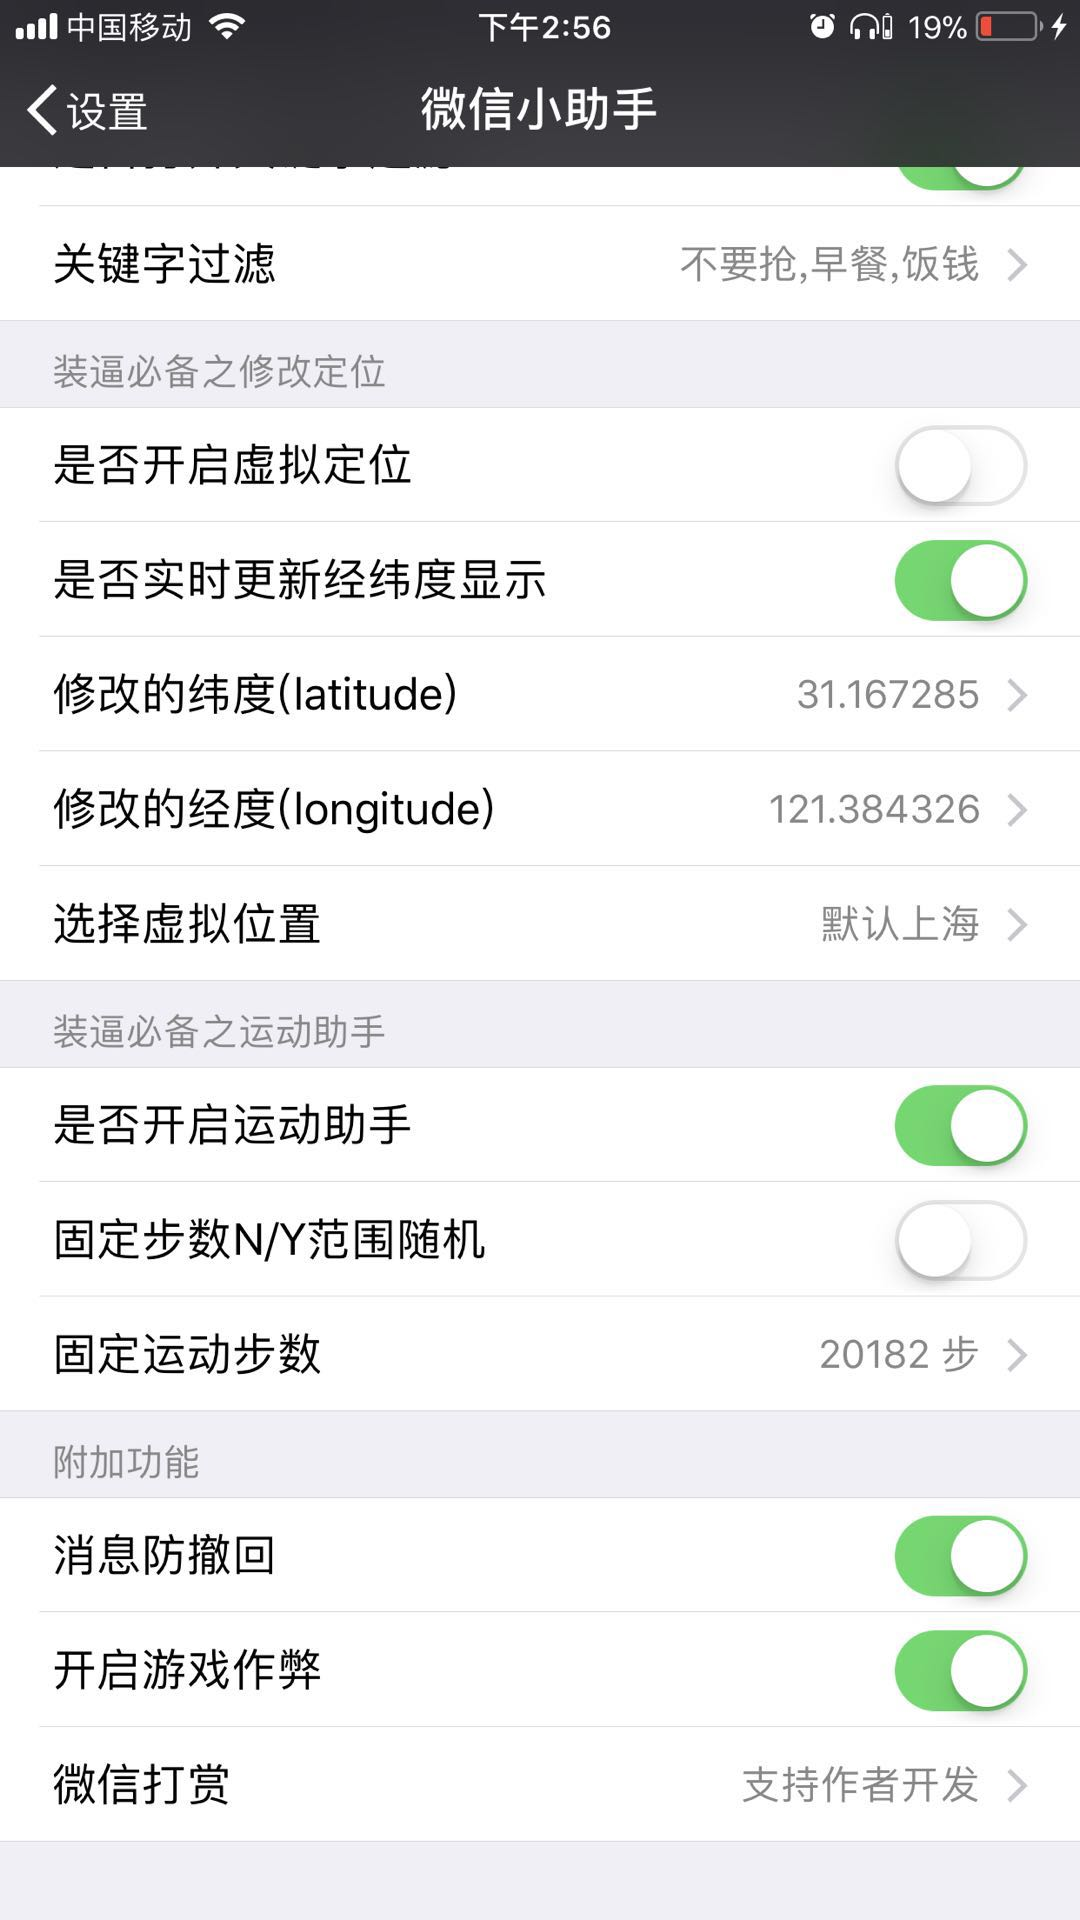
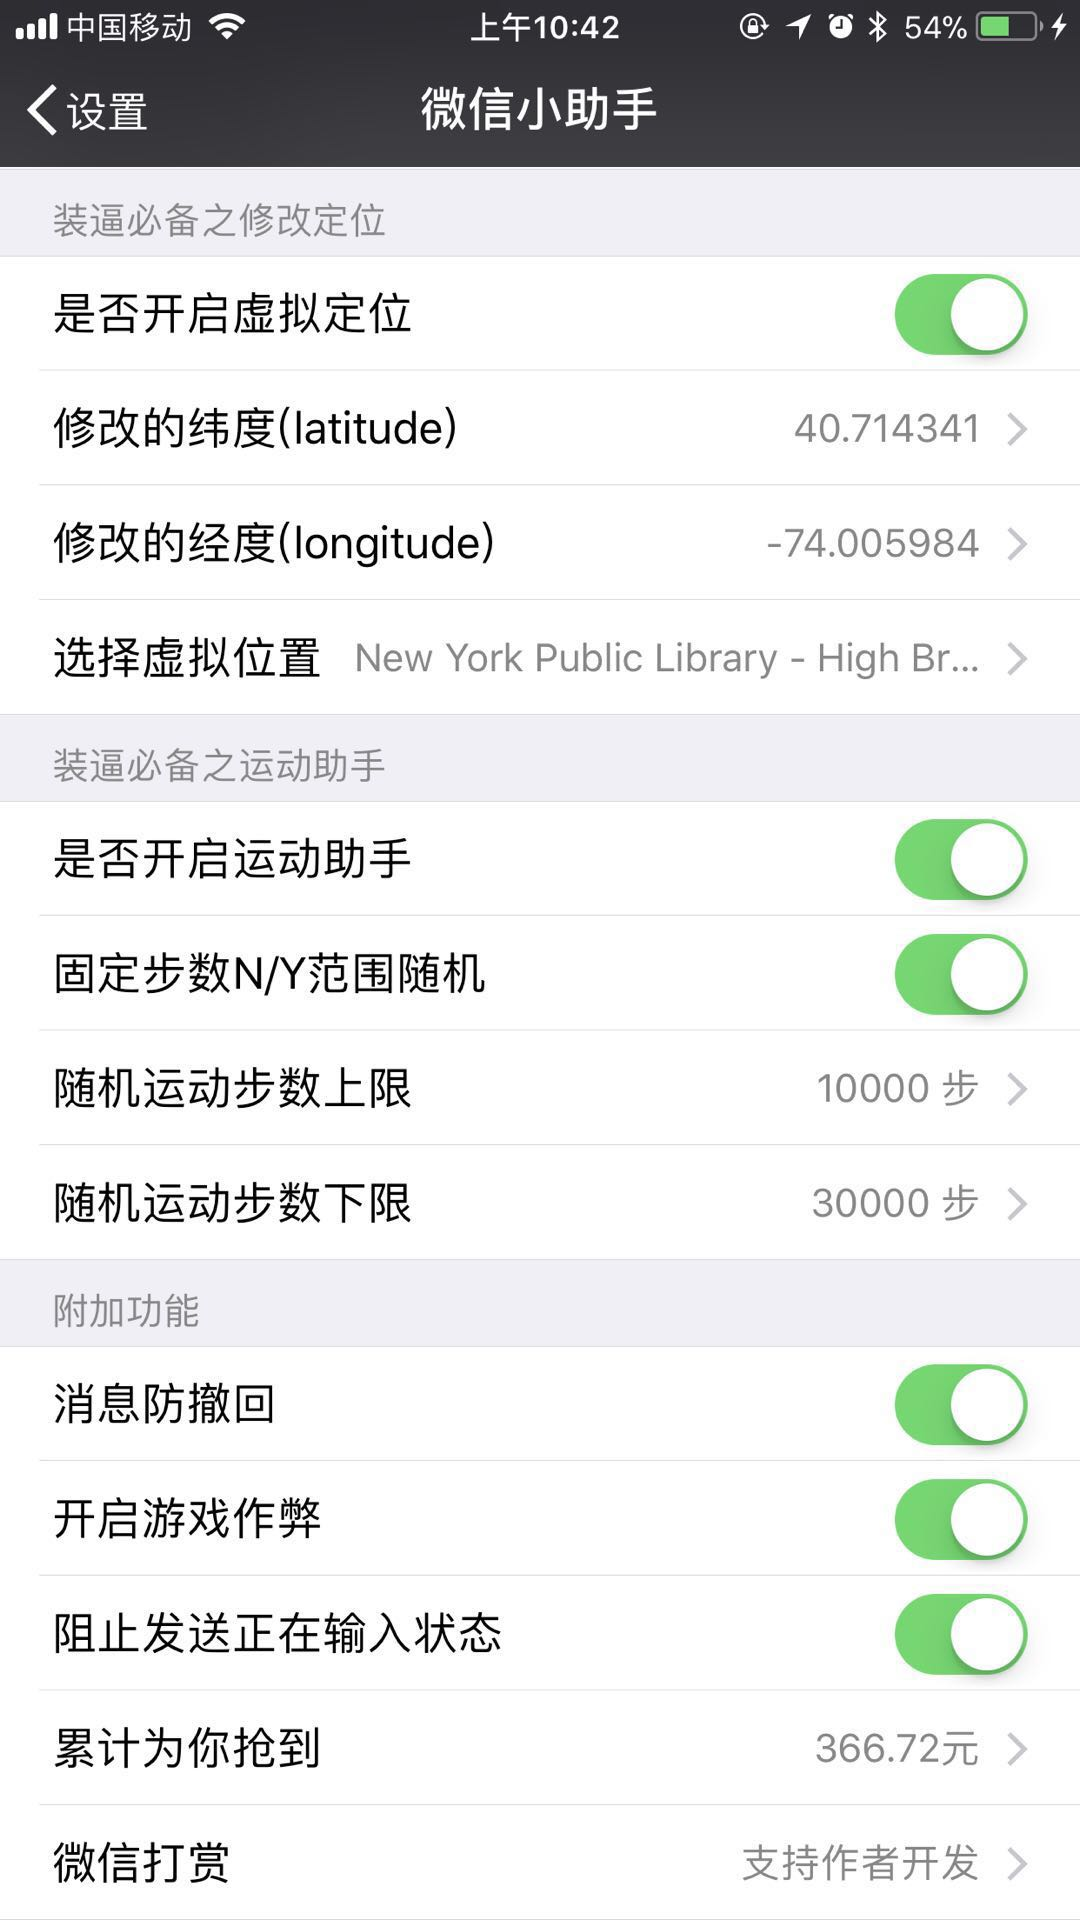
更新微信6.6.5

diff --git a/README.md b/README.md
@@ -1,8 +1,8 @@
 # WeChatPlugin-iOS
 
-微信小助手-iOS版 v2.0.0
+微信小助手-iOS版 v2.1.0
 
-## 为了大家正月里可以及时抢到红包,给大家更新一个可以后台抢红包的微信插件包
+## 您的打赏是作者研发的动力!
 
 ### 功能
 - [x] 自动抢红包
@@ -10,11 +10,14 @@
 - [x] 支持后台抢红包
 - [x] 防止多人同时抢红包
 - [x] 群聊过滤
-- [x] 增加各种模拟真实用户抢红包功能,防止年底腾讯微信的封杀
+- [x] 关键词过滤
+- [x] 增加各种模拟真实用户抢红包功能,防止腾讯微信的封杀
 - [x] 支持剪刀石头布以及掷骰子的游戏作弊
-- [x] 修改微信运动步数
-- [x] 修改地理位置
+- [x] 修改微信运动步数,分为固定设置步数与范围随机步数
+- [x] 修改地理位置,异国交友不是梦!
 - [x] 消息防撤回
+- [x] 可查看累计抢红包总额
+- [x] 抢到红包后的本地推送新增红包金额提醒
 
 ### 截图
 
@@ -40,7 +43,7 @@
 
 * 可直接通过百度云下载
 
-链接:https://pan.baidu.com/s/1mj8tQxq  密码:4u95(微信版本 6.6.2)
+链接:https://pan.baidu.com/s/1cdXVOXRmDYCesis5fAgUAQ  密码:ri4q(微信版本 6.6.5-持续更新)
 
 #### 3. 使用`iOS App Signer.app` 进行重签名
 
@@ -63,7 +66,7 @@
 打开`设置-通用-描述文件与设备管理`，信任证列表中的开发者应用。
 
 ### 免责声明
-本项目旨在学习 iOS 逆向的一点实践，不可使用于商业和个人其他意图。若使用不当，均由个人承担。
+本项目不可使用于商业和个人其他意图。若使用不当，均由个人承担。
 
 
 ---
